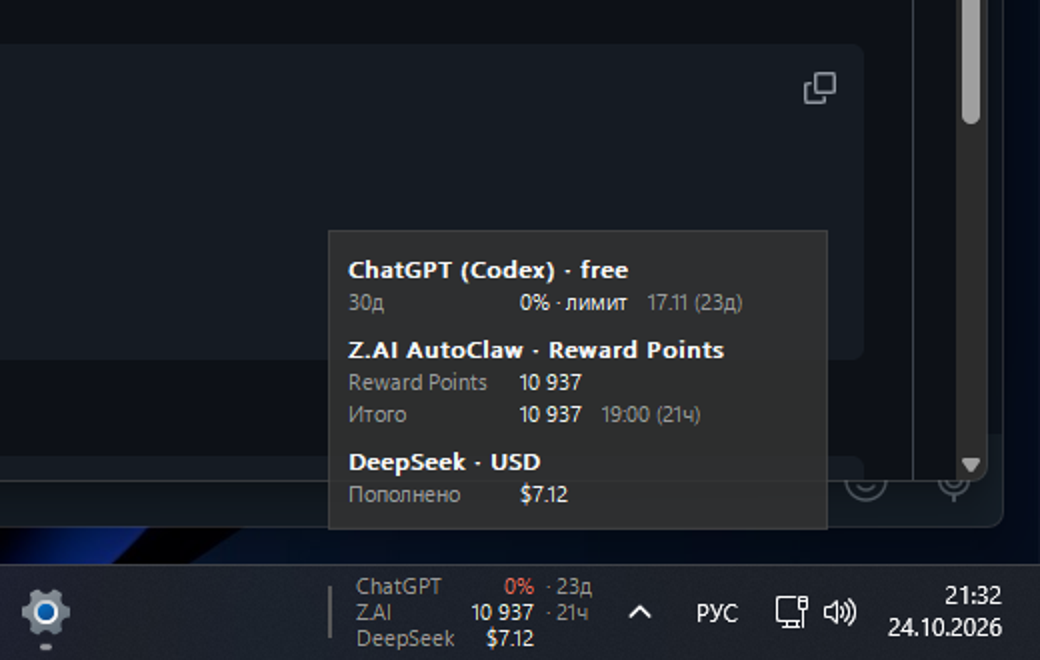
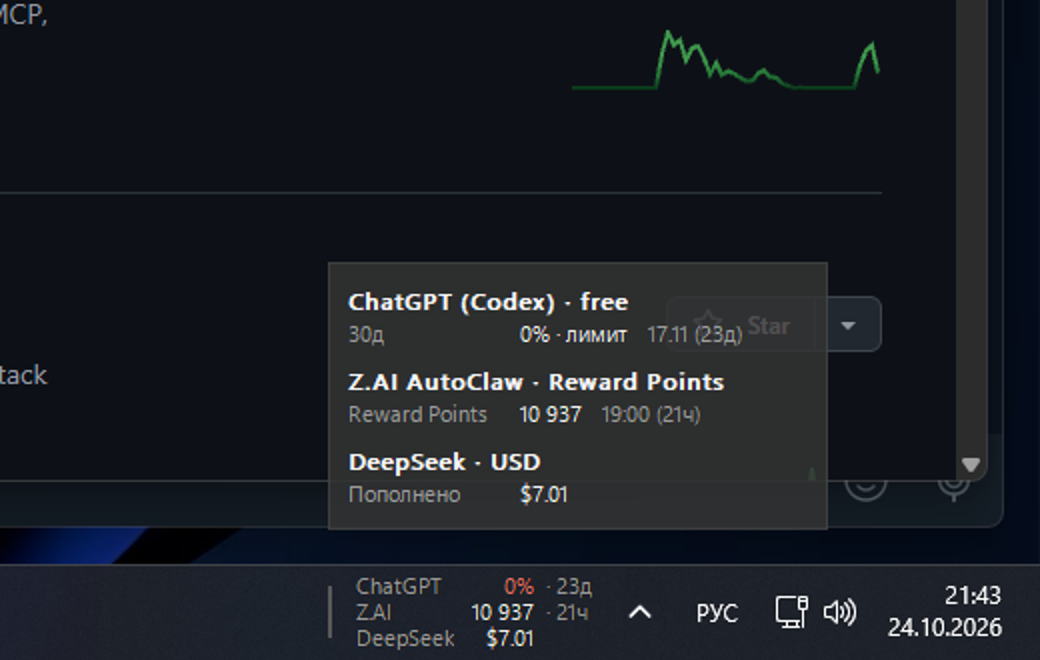
fix: compact single-component balances and update check fallback

diff --git a/src/updater.rs b/src/updater.rs
@@ -1,3 +1,6 @@
+use std::path::PathBuf;
+use std::process::{Command, Stdio};
+
 use serde::Deserialize;
 use windows::core::PCWSTR;
 use windows::Win32::Foundation::HWND;
@@ -83,13 +86,57 @@ pub fn check() -> Result<Option<Release>, String> {
         ("User-Agent", "agent-limit-monitor"),
         ("Accept", "application/vnd.github+json"),
     ];
-    let release: Release = http::get_json(RELEASES_URL, &headers)
-        .map_err(|_| "Не удалось проверить обновления (нет релизов или сети)".to_string())?;
+    let release: Release = match http::get_json(RELEASES_URL, &headers) {
+        Ok(release) => release,
+        Err(error) => {
+            crate::diagnose::log(format!("GitHub API failed ({error:?}); trying Node"));
+            node_latest_release()?
+        }
+    };
     if is_newer(env!("CARGO_PKG_VERSION"), &release.tag_name) {
         Ok(Some(release))
     } else {
         Ok(None)
     }
+}
+
+fn node_latest_release() -> Result<Release, String> {
+    use std::os::windows::process::CommandExt;
+    const CREATE_NO_WINDOW: u32 = 0x0800_0000;
+    const SCRIPT: &str = r#"
+const https=require('https');
+const req=https.get('https://api.github.com/repos/sstpnk/agent-limit-monitor/releases/latest',{headers:{'User-Agent':'agent-limit-monitor','Accept':'application/vnd.github+json'}},res=>{
+ let body=''; res.on('data',c=>body+=c); res.on('end',()=>process.stdout.write(body));
+});
+req.on('error',()=>process.exit(2));
+req.setTimeout(10000,()=>{req.destroy();process.exit(3);});
+"#;
+    let output = Command::new(node_path())
+        .arg("-e")
+        .arg(SCRIPT)
+        .creation_flags(CREATE_NO_WINDOW)
+        .stdin(Stdio::null())
+        .stderr(Stdio::null())
+        .output()
+        .map_err(|_| "Не удалось проверить обновления".to_string())?;
+    if !output.status.success() {
+        return Err("Не удалось проверить обновления (нет релизов или сети)".to_string());
+    }
+    serde_json::from_slice(&output.stdout)
+        .map_err(|_| "Не удалось разобрать ответ GitHub".to_string())
+}
+
+fn node_path() -> PathBuf {
+    for candidate in [
+        r"C:\Program Files\nodejs\node.exe",
+        r"C:\Program Files (x86)\nodejs\node.exe",
+    ] {
+        let path = PathBuf::from(candidate);
+        if path.is_file() {
+            return path;
+        }
+    }
+    PathBuf::from("node")
 }
 
 pub fn open_release(release: &Release) {

diff --git a/src/providers/zai.rs b/src/providers/zai.rs
@@ -185,6 +185,7 @@ pub fn poll(config: &Config) -> Reading {
     };
 
     let mut detail = Vec::new();
+    let mut components = 0;
     for wallet in data.wallets.iter().filter(|wallet| wallet.balance > 0) {
         let label = wallet
             .display_name
@@ -198,6 +199,7 @@ pub fn poll(config: &Config) -> Reading {
             value: format_credits(wallet.balance.max(0) as u64),
             reset: None,
         });
+        components += 1;
     }
     if detail.is_empty() {
         detail.push(DetailLine {
@@ -205,12 +207,18 @@ pub fn poll(config: &Config) -> Reading {
             value: format_credits(total),
             reset: None,
         });
+        components = 1;
     }
-    detail.push(DetailLine {
-        label: "Итого".to_string(),
-        value: format_credits(total),
-        reset: expiry.and_then(|time| format_reset_detail(Some(time))),
-    });
+    let expiry_text = expiry.and_then(|time| format_reset_detail(Some(time)));
+    if components > 1 {
+        detail.push(DetailLine {
+            label: "Итого".to_string(),
+            value: format_credits(total),
+            reset: expiry_text,
+        });
+    } else if let Some(line) = detail.last_mut() {
+        line.reset = expiry_text;
+    }
 
     let state = if total == 0 {
         State::Critical

diff --git a/src/window.rs b/src/window.rs
@@ -1474,7 +1474,7 @@ fn show_tooltip() {
                 .map(|state| state.hwnd.to_hwnd())
                 .unwrap_or_default(),
             TIMER_TOPMOST,
-            120,
+            200,
             None,
         );
     }
@@ -1580,7 +1580,6 @@ unsafe extern "system" fn wnd_proc(
                     }
                 }
                 TIMER_TOPMOST => {
-                    let _ = KillTimer(hwnd, TIMER_TOPMOST);
                     let tip = lock_state()
                         .as_ref()
                         .map(|state| state.tip_hwnd.to_hwnd())

diff --git a/DESIGN.md b/DESIGN.md
@@ -2,7 +2,7 @@
 
 Дата: 2026-10-24  
 База: форк `sstpnk/Claude-Code-Usage-Monitor`, ветка `main` = v1.4.9  
-Статус: **MVP реализован** (v0.1.0). Exe — **943 616 байт**, 1–2 колонки, высота 42 px, hover-плашка, ChatGPT + Z.AI + DeepSeek + Claude + Antigravity + Copilot, taskbar-виджет с меню и tray-иконкой. Поведение taskbar/меню/tray — из v2.
+Статус: **MVP реализован** (v0.1.0). Exe — **948 736 байт**, 1–2 колонки, высота 42 px, hover-плашка, ChatGPT + Z.AI + DeepSeek + Claude + Antigravity + Copilot, taskbar-виджет с меню и tray-иконкой. Поведение taskbar/меню/tray — из v2.
 
 ---
 
@@ -46,7 +46,7 @@
 - Z.AI: DPAPI + AES-256-GCM, wallet/ledger; opt-in refresh токена с DPAPI-кэшем.
 - DeepSeek: `user/balance`, сумма `topped_up + granted`.
 - Если `SetParent(taskbar)` запрещён (Windows 11/политика), включается taskbar-overlay: окно остаётся слева от области уведомлений, перетаскивается и сохраняет offset.
-- Сборка: `build.bat build --release`; exe **943 616 Б**, private ~3,4 МБ, WS ~21 МБ.
+- Сборка: `build.bat build --release`; exe **948 736 Б**, private ~3,4 МБ, WS ~21 МБ.
 
 Проверено: DeepSeek platform-баланс через DSH, ChatGPT free, Z.AI, переключение моделей/частоты, taskbar-embed, tray-иконка. Не проверено: Claude/Antigravity/Copilot без реальных входов, Z.AI refresh при истёкшем токене, ChatGPT-подписка, `explorer.exe` restart.
 
@@ -171,7 +171,7 @@ DeepSeek · USD
 - Правый клик по виджету или tray: **Обновить**, **Частота обновления** (1/2/5/15/60 мин), **Модели** (ChatGPT/Z.AI/DeepSeek/Claude/Antigravity/Copilot), **Обновить приложение**, **Версия**, **Сбросить позицию**, **Выход**.
 - Левый клик по tray: показать/скрыть виджет.
 - Одна статическая tray-иконка; tooltip — сводка. Подменю «Модели» включает/выключает провайдеров, настройки сохраняются в JSON.
-- «Обновить приложение» скачивает asset `agent-limit-monitor.exe` из GitHub Release, запускает cmd-скрипт замены и перезапуска; при ошибке открывает страницу релиза.
+- «Обновить приложение» проверяет GitHub Releases (native API, при ошибке — Node fallback), скачивает asset `agent-limit-monitor.exe`, запускает cmd-скрипт замены и перезапуска; при ошибке открывает страницу релиза.
 
 ### 3.6. Конфигурация вместо панели
 
@@ -447,7 +447,7 @@ Accept: application/json
 
 | Метрика | Сейчас v2.20 | Цель | Факт v0.1.0 |
 |---|---:|---:|---:|
-| exe | 7,63 МБ | ≤ 1,0 МБ | **943 616 Б** |
+| exe | 7,63 МБ | ≤ 1,0 МБ | **948 736 Б** |
 | Файлы в `%APPDATA%` | 576 КБ+ | ≤ 10 КБ | конфиг < 1 КБ |
 | Private bytes | не замерено | ≤ 8 МБ | **~2,8 МБ** |
 | Working set | не замерено | ≤ 20 МБ | **~17 МБ** |
@@ -456,7 +456,7 @@ Accept: application/json
 | GDI objects | — | ≤ 50 | не замерено |
 | Старт до виджета | — | ≤ 150 мс | не замерено |
 
-v1.4.9 даёт 15,8 МБ WS / 2,4 МБ private; фактическая сборка — 943 КБ exe и ~21 МБ WS. Главный выигрыш — отсутствие egui/D3D11/тем.
+v1.4.9 даёт 15,8 МБ WS / 2,4 МБ private; фактическая сборка — 949 КБ exe и ~21 МБ WS. Главный выигрыш — отсутствие egui/D3D11/тем.
 
 ### 6.2. Что экономит память
 
